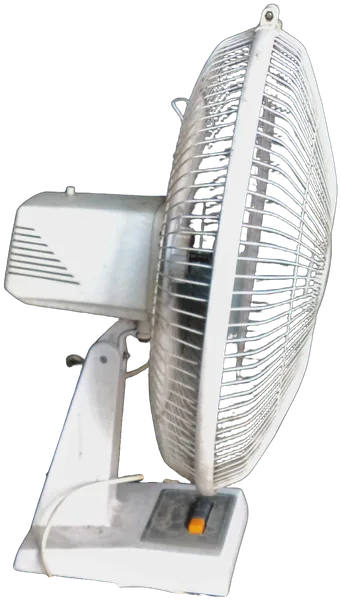
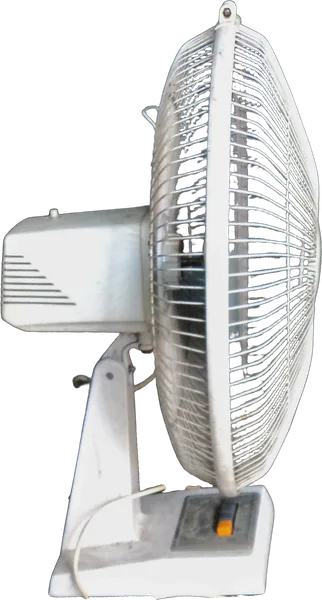
風扇照片：轉正 7.8° 並改以網罩外框圓環對齊吹風矩形（#143 追修）
原照片的風扇頭往後仰約 7.8°，且錨點對的是整顆網罩的中心，造成照片的網罩
外框跟矩形近端邊歪斜、前半網罩伸進矩形。素材整張轉正讓圓環垂直，
FAN_PHOTO_GUARD 改成圓環的中心與半長。

diff --git a/src/app/FanOverlay.ts b/src/app/FanOverlay.ts
@@ -36,8 +36,8 @@
  *
  * **照片外觀**（issue #143）：開發者分區可以把圖示換成一張去背的真實桌扇照片
  * （`setIconStyle('photo')`，離線錄製素材用）。照片是跟向量 `<g>` 並排的另一個
- * `<g>`，同樣以圖示錨點為原點、面向 +x，網罩中心對齊錨點、網罩縱向半徑＝
- * `radiusPx`（跟向量護罩的 `ry` 一樣），寬度滑桿照樣控制大小。差別在往左吹
+ * `<g>`，同樣以圖示錨點為原點、面向 +x，網罩外框圓環的中心對齊錨點、圓環縱向
+ * 半長＝`radiusPx`（跟向量護罩的 `ry` 一樣，見 `FAN_PHOTO_GUARD`），寬度滑桿照樣控制大小。差別在往左吹
  * （`cos(angle) < 0`）時多一個 `scale(1 -1)`：先上下翻再旋轉，在畫面上等於
  * 水平翻轉，照片裡的風扇才不會倒立——照片的底座是寫實的，倒過來比向量圖示的
  * 風格化支架突兀得多，所以只有照片這樣做，向量圖示維持整組旋轉。「顯示風扇
@@ -59,15 +59,19 @@ const MIN_RADIUS_PX = 6;
 const MAX_RADIUS_PX = 400;
 
 /**
- * 照片裡網罩的位置（issue #143），都是對整張圖的比例：`centerX`/`centerY`＝網罩中心
- * 佔圖寬／圖高的比例，`radius`＝網罩縱向半徑佔圖高的比例，`aspect`＝圖寬／圖高。
- * 在去背原圖（808×1423）上量的：網罩中心約 (580, 617)、上下緣約 y = 65／1170。
+ * 照片裡網罩外框圓環的位置（issue #143），都是對整張圖的比例：`centerX`/`centerY`＝圓環
+ * 中心佔圖寬／圖高的比例，`radius`＝圓環縱向半長佔圖高的比例，`aspect`＝圖寬／圖高。
+ *
+ * 對齊的是前後網罩接合處那圈外框圓環，不是整顆網罩（含前後凸起）的中心——圓環正好
+ * 是護罩的「正面」，對到矩形近端邊上看起來才像風從風扇口吹出去。原照片的風扇頭往後仰
+ * 約 7.8°，素材已整張轉正讓圓環垂直（底座因此微斜），再量：763×1422 的轉正圖上圓環
+ * 兩端約 (542, 47)／(542, 1162)。
  */
 export const FAN_PHOTO_GUARD = {
-  centerX: 580 / 808,
-  centerY: 617 / 1423,
-  radius: 552 / 1423,
-  aspect: 808 / 1423,
+  centerX: 542.3 / 763,
+  centerY: 604.6 / 1422,
+  radius: 557.6 / 1422,
+  aspect: 763 / 1422,
 } as const;
 
 export interface FanOverlayCorner {

diff --git a/src/app/FanOverlay.test.ts b/src/app/FanOverlay.test.ts
@@ -73,7 +73,7 @@ describe('FanOverlay 圖示外觀（issue #143）', () => {
     expect(parts(overlay).vector.getAttribute('transform')).toBe('translate(50 60) rotate(180)');
   });
 
-  it('照片的網罩中心對齊圖示錨點、網罩縱向半徑＝radiusPx', () => {
+  it('照片的網罩外框圓環中心對齊圖示錨點、圓環縱向半長＝radiusPx', () => {
     const overlay = new FanOverlay();
     const { image } = parts(overlay);
     for (const r of [100, 37]) {

diff --git a/src/assets/CREDITS.md b/src/assets/CREDITS.md
@@ -5,6 +5,6 @@
 - 原圖：[Fa, table,Tamil Nadu.450.jpeg](https://commons.wikimedia.org/wiki/File:Fa,_table,Tamil_Nadu.450.jpeg)（Wikimedia Commons）
 - 作者：Info-farmer（தகவலுழவன்），2011-10
 - 授權：[CC BY-SA 3.0](https://creativecommons.org/licenses/by-sa/3.0)
-- 修改：以 rembg（BiRefNet-general 模型）去背，手動移除懸空的電線與插頭，裁切並縮小成 341×600 的 WebP。
+- 修改：以 rembg（BiRefNet-general 模型）去背，手動移除懸空的電線與插頭，整張逆時針轉 7.8° 讓網罩外框圓環垂直，裁切並縮小成 322×600 的 WebP。
   本修改版同樣以 CC BY-SA 3.0 釋出。
 - 用途：開發者分區「風扇圖示外觀」選「照片」時的電風扇圖示（issue #143）；遊戲內的標示在「?」操作說明的「素材來源」。
